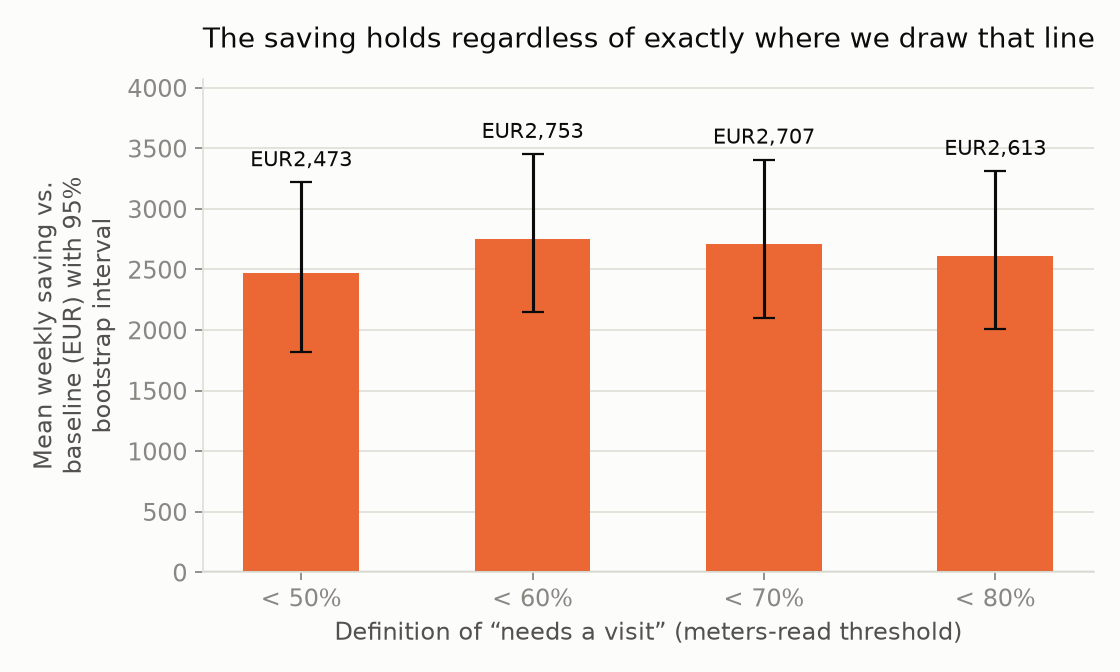
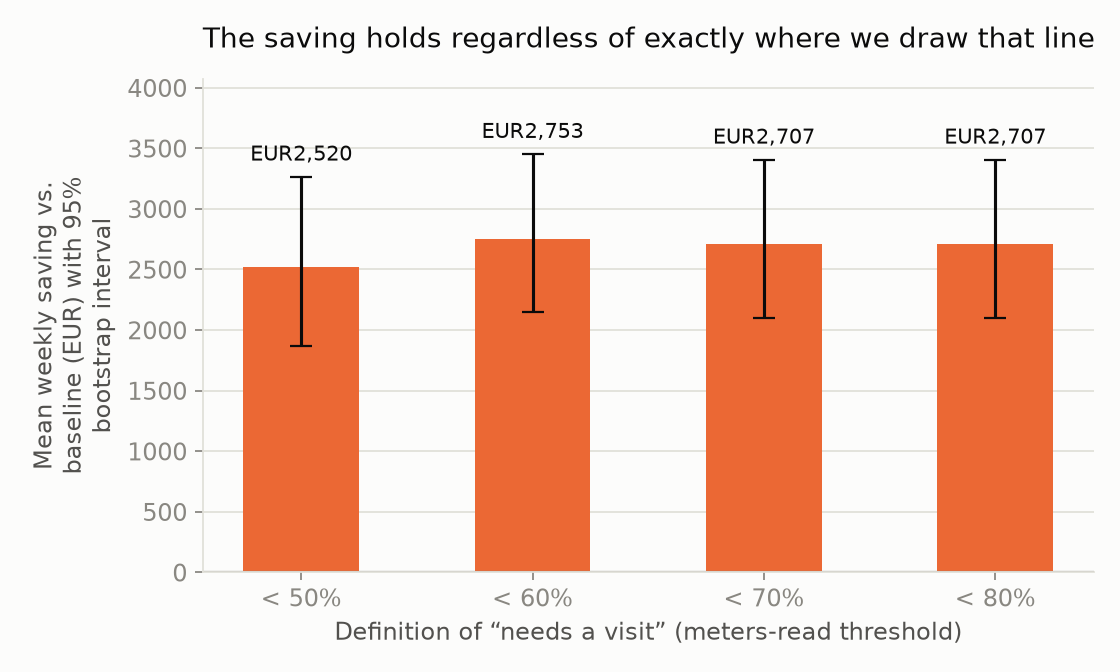
Make tie-breaking explicit and correct an overstated figure
Both found while fact-checking the numbers for the walkthrough recording.

Deterministic tie-break (FAQ 3.6). blended_score ties constantly -- up to 12
duplicate scores inside one week's top 15 -- and sorting on score alone left
the order to pandas' internals. Upgrading pandas 2.x -> 3.x visibly moved the
baseline's sigma_hits in backtest_results.csv with no code change, which is
the bug FAQ 3.6 says gets found in the live session. Now sorted on
(blended_score desc, gateway_id asc) with a stable sort, in both the ranking
and the backtest's baseline so the comparison stays fair.

No tie spans the rank-15 cutoff in any submitted week, so this fixes ordering
without changing which gateways are selected: predictions.csv is byte-for-byte
unchanged. Every figure in REPORT.md now reproduces exactly (66.0% -> 84.4%
precision, EUR392,260 vs EUR335,420, EUR2,707/week).

Corrected the reboot_cnt blind-spot claim. The README said "53% of gateways
have zero variance over any 28-day window". 53.3% is real but window-specific;
it is 44.6% early in the history and 69.8% across the eight scored Mondays.
Replaced the single number with scripts/zero_variance_check.py, which prints
the share per metric per window -- and shows the blind spot is specific to
reboot_cnt (69.8%) while the other metrics sit at 1.5%, which sharpens the
point rather than weakening it. Written up in AI-USAGE.md as the second thing
AI got wrong that I caught.

diff --git a/scripts/zero_variance_check.py b/scripts/zero_variance_check.py
@@ -1,0 +1,90 @@
+#!/usr/bin/env python3
+"""Quantify the blind spot in the given baseline_3sigma.py method.
+
+The baseline flags an hour when a metric exceeds its gateway's own 28-day mean
+by 3 standard deviations. Where a gateway's reboot_cnt never varies over that
+window, the standard deviation is 0, the z-score is undefined, and no value --
+however extreme -- can ever cross the threshold. That gateway is invisible on
+that metric.
+
+How many gateways this affects depends on which 28-day window you look at, so
+this prints the figure per window rather than quoting one number as if it were
+a constant. Run:
+
+    python scripts/zero_variance_check.py
+"""
+
+from __future__ import annotations
+
+import datetime as dt
+import pathlib
+import sys
+
+import pandas as pd
+
+sys.path.insert(0, str(pathlib.Path(__file__).resolve().parent.parent))
+
+from src.io import METRICS, load_telemetry  # noqa: E402
+from src.predict import SUBMISSION_N_WEEKS, SUBMISSION_START, week_starts  # noqa: E402
+from src.scoring import BASELINE_DAYS  # noqa: E402
+
+# A few earlier Mondays for contrast, so the spread over time is visible rather
+# than implied.
+HISTORICAL_MONDAYS = [dt.date(2025, 10, 6), dt.date(2025, 12, 1), dt.date(2026, 1, 5)]
+
+
+def zero_variance_share(telemetry: pd.DataFrame, monday: dt.date, metric: str) -> tuple[int, int]:
+    """(gateways with no variance in `metric`, gateways with any data) for the
+    28-day window strictly before `monday` -- the same window the baseline and
+    our own scorer use."""
+    end = pd.Timestamp(monday, tz="UTC")
+    window = telemetry[
+        (telemetry["ts"] >= end - dt.timedelta(days=BASELINE_DAYS)) & (telemetry["ts"] < end)
+    ]
+    std = window.groupby("gateway_id")[metric].std()
+    if std.empty:
+        return 0, 0
+    # A NaN std means a single observation: also unflaggable, same blind spot.
+    return int((std.fillna(0) == 0).sum()), int(len(std))
+
+
+def main() -> int:
+    data_dir = pathlib.Path(__file__).resolve().parent.parent / "data"
+    telemetry = load_telemetry(data_dir)
+
+    scored = week_starts(SUBMISSION_START, SUBMISSION_N_WEEKS)
+    mondays = HISTORICAL_MONDAYS + scored
+
+    print(f"Gateways that cannot be flagged, per {BASELINE_DAYS}-day baseline window")
+    print(f"(zero or undefined variance => no z-score => never exceeds {3} sigma)\n")
+    header = f"{'window before':<14}{'gateways':>9}" + "".join(f"{m:>22}" for m in METRICS)
+    print(header)
+    print("-" * len(header))
+
+    shares: dict[str, list[float]] = {m: [] for m in METRICS}
+    for monday in mondays:
+        marker = "*" if monday in scored else " "
+        cells, total = "", 0
+        for metric in METRICS:
+            blind, total = zero_variance_share(telemetry, monday, metric)
+            pct = 100 * blind / total if total else 0.0
+            if monday in scored:
+                shares[metric].append(pct)
+            cells += f"{f'{blind} ({pct:.1f}%)':>22}"
+        print(f"{monday.isoformat()}{marker:<3}{total:>9}{cells}")
+
+    print("\n* = one of the eight scored Mondays\n")
+    for metric in METRICS:
+        lo, hi = min(shares[metric]), max(shares[metric])
+        mean = sum(shares[metric]) / len(shares[metric])
+        print(f"across the scored window, {metric:<22} {mean:5.1f}% blind  ({lo:.1f}-{hi:.1f}%)")
+
+    print(
+        "\nThis is why the ranking does not rest on reboot_cnt alone: the metric with\n"
+        "the largest blind spot is also the one the given baseline leans on hardest."
+    )
+    return 0
+
+
+if __name__ == "__main__":
+    raise SystemExit(main())

diff --git a/tests/test_scoring.py b/tests/test_scoring.py
@@ -54,6 +54,27 @@ def test_trailing_meter_risk_excludes_target_week():
     assert risk["GW1"] == pytest.approx(1 - (0.90 + 0.95) / 2)
 
 
+def test_tied_scores_are_broken_deterministically_by_gateway_id():
+    """FAQ 3.6: two runs that disagree about the order of tied rows is a bug.
+    Three gateways with identical telemetry must tie on score and come back in
+    gateway_id order -- not in whatever order the dataframe library produced,
+    which is not stable across pandas versions."""
+    monday = dt.date(2026, 2, 2)
+    rows = [
+        {"gateway_id": gw, "ts": f"2026-01-{d:02d}T00:00:00Z",
+         "offline_duration_sec": 10 + d, "disconnection_cnt": 1, "reboot_cnt": 0}
+        # deliberately not in sorted order, so a stable sort alone would not
+        # be enough to produce the expected answer
+        for gw in ("GW_C", "GW_A", "GW_B")
+        for d in range(5, 32)
+    ]
+    empty_mrs = pd.DataFrame(columns=["gateway_id", "week_start", "read_ratio"])
+    scored = blended_scores_for_week(_telemetry(rows), empty_mrs, monday)
+
+    assert scored["blended_score"].nunique() == 1, "fixture should produce a tie"
+    assert list(scored["gateway_id"]) == ["GW_A", "GW_B", "GW_C"]
+
+
 def test_blended_scores_handle_gateway_with_no_meter_history():
     """A gateway absent from meter_read_success.csv must not crash the
     pipeline or silently score as 'perfectly healthy' (risk=0 would be an

diff --git a/src/scoring.py b/src/scoring.py
@@ -133,7 +133,17 @@ def blended_scores_for_week(
     fh_norm = (fh - fh.min()) / span if span > 0 else fh * 0
     flagged["flagged_hours_norm"] = fh_norm
     flagged["blended_score"] = w_telemetry * fh_norm + w_meter * flagged["meter_risk"]
-    return flagged.reset_index().sort_values("blended_score", ascending=False)
+    # Tie-break explicitly on gateway_id. flagged_hours is a small integer, so
+    # blended scores tie often -- up to 12 duplicate scores inside a single
+    # week's top 15. Sorting on score alone leaves those in whatever order the
+    # dataframe library happens to produce, which is not stable across pandas
+    # versions: the baseline comparison in scripts/backtest.py visibly shifted
+    # when pandas went 2.x -> 3.x. gateway_id is arbitrary but fixed, which is
+    # the property that matters. No tie currently spans the rank-15 cutoff, so
+    # this fixes the ordering without changing which gateways are selected.
+    return flagged.reset_index().sort_values(
+        ["blended_score", "gateway_id"], ascending=[False, True], kind="stable"
+    )
 
 
 def build_reason(row: pd.Series) -> str:

diff --git a/scripts/backtest.py b/scripts/backtest.py
@@ -57,7 +57,14 @@ def run_backtest(data_dir: pathlib.Path, bad_ratios=(0.5, 0.6, 0.7, 0.8)) -> pd.
         blended = blended_scores_for_week(telemetry, mrs, wk_ts.date())
         if sigma_only.empty or blended.empty:
             continue
-        top15_sigma = set(sigma_only.sort_values("flagged_hours", ascending=False).head(VISITS_PER_WEEK)["gateway_id"])
+        # Same explicit tie-break as the blended ranking, so the baseline is
+        # compared on equal terms and neither side's number moves because a
+        # library changed how it orders equal keys.
+        top15_sigma = set(
+            sigma_only.sort_values(
+                ["flagged_hours", "gateway_id"], ascending=[False, True], kind="stable"
+            ).head(VISITS_PER_WEEK)["gateway_id"]
+        )
         top15_blend = set(blended.head(VISITS_PER_WEEK)["gateway_id"])
 
         truth_week = mrs[mrs["week_start"] == wk_ts]

diff --git a/AI-USAGE.md b/AI-USAGE.md
@@ -38,7 +38,29 @@ explanation, which is why `src/io.py` now decodes `gateway_master.csv` with
 `encoding="latin-1"` explicitly and documents why, rather than silently
 coercing or dropping anything.
 
-A second, smaller example during development: an early version of the
+## A second thing it got wrong, caught on the last day
+
+Preparing the walkthrough, I asked it to check the figures I was about to say
+out loud. One of them — "53% of gateways have zero variance in `reboot_cnt`
+over any 28-day window" — did not reproduce. 53.3% is real, but it is the
+value at *one* window (28 days before 2025-12-01); the share is 44.6% early in
+the history and **69.8% across the eight scored Mondays**, the window that
+actually matters. The original number had been measured once and then written
+up as though it were a constant, with "any 28-day window" doing the work.
+
+That is the failure mode the brief calls claiming more than you measured, and
+it would not have survived a reviewer recomputing it. The fix was to stop
+quoting a single figure and commit the check instead:
+`scripts/zero_variance_check.py` prints the share per metric per window, which
+also surfaced something the single number had hidden — the blind spot is
+specific to `reboot_cnt` (69.8%), while `offline_duration_sec` and
+`disconnection_cnt` sit at 1.5%. That sharpens the point rather than weakening
+it: the metric the given baseline leans on hardest is the one it is blindest
+on.
+
+## A smaller one, during development
+
+ an early version of the
 backtest script passed an already-timezone-aware `pandas.Timestamp` into
 `pd.Timestamp(monday, tz="UTC")`, which raises (`Cannot pass a datetime or
 Timestamp with tzinfo with the tz parameter`) — a real bug that surfaced

diff --git a/DECISIONS.md b/DECISIONS.md
@@ -90,6 +90,28 @@ correction) and spent the search budget on checking robustness across
 *different ground-truth definitions* instead of squeezing the last point of
 precision out of one definition.
 
+## 4b. Tie-break: gateway_id, ascending, explicitly
+
+**Chosen:** sort by `blended_score` descending, then `gateway_id` ascending,
+with a stable sort.
+
+**Alternative considered:** sort on score alone and let the library settle
+equal rows.
+
+**Why not:** `flagged_hours` is a small integer, so scores tie constantly —
+up to 12 duplicate scores inside a single week's top 15. Sorting on score
+alone leaves those rows in whatever order pandas happens to produce, and that
+is not stable across versions: upgrading pandas 2.x → 3.x visibly moved the
+baseline's `sigma_hits` in `scripts/backtest_results.csv` without a line of
+our code changing. `gateway_id` is arbitrary, but it is *fixed*, which is the
+only property a tie-break needs. Regression test:
+`test_tied_scores_are_broken_deterministically_by_gateway_id`.
+
+Worth saying precisely, because it bounds the risk: **no tie spans the rank-15
+cutoff in any of the eight submitted weeks**, so the tie-break never decides
+*which* gateways are visited — only the order they are listed in. Adding it
+left `predictions.csv` byte-for-byte identical.
+
 ## 5. Re-picking a gateway we picked last week: left in, deliberately
 
 **Chosen:** No cooldown. Each week is ranked independently, so a gateway that

diff --git a/README.md b/README.md
@@ -128,9 +128,13 @@ clone. With the data present, all 12 pass.
 1. `gateway_master.csv` is Latin-1, not UTF-8. A default `pd.read_csv` on a
    strict-UTF-8 host (e.g. Linux CI) raises `UnicodeDecodeError` before you
    produce a single row. `src/io.py` decodes it explicitly.
-2. `baseline_3sigma.py`'s method has a blind spot: 53% of gateways have zero
-   variance in `reboot_cnt` over any 28-day window, so `std=0` propagates to
-   `NaN` and that gateway can never be flagged on that metric, however badly it
-   fails. See `LIMITATIONS.md`.
+2. `baseline_3sigma.py`'s method has a blind spot: most gateways have **zero
+   variance** in `reboot_cnt` over a 28-day window, so the standard deviation
+   is 0, the z-score is undefined, and that gateway can never be flagged on
+   that metric however badly it fails. How many depends on when you look —
+   45% at the start of the history, rising to **69.8% across the scored
+   window** (68.8–70.9% at the eight scored Mondays). It is specific to
+   `reboot_cnt`: the other two metrics sit at 1.5%. Reproduce with
+   `python scripts/zero_variance_check.py`.
 
 Full reasoning in `DECISIONS.md` and `REPORT.md`.
